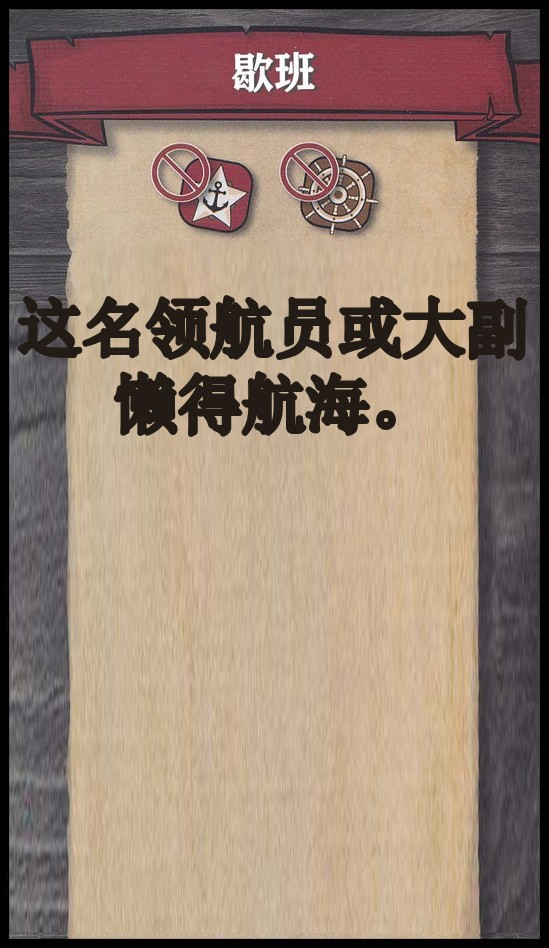
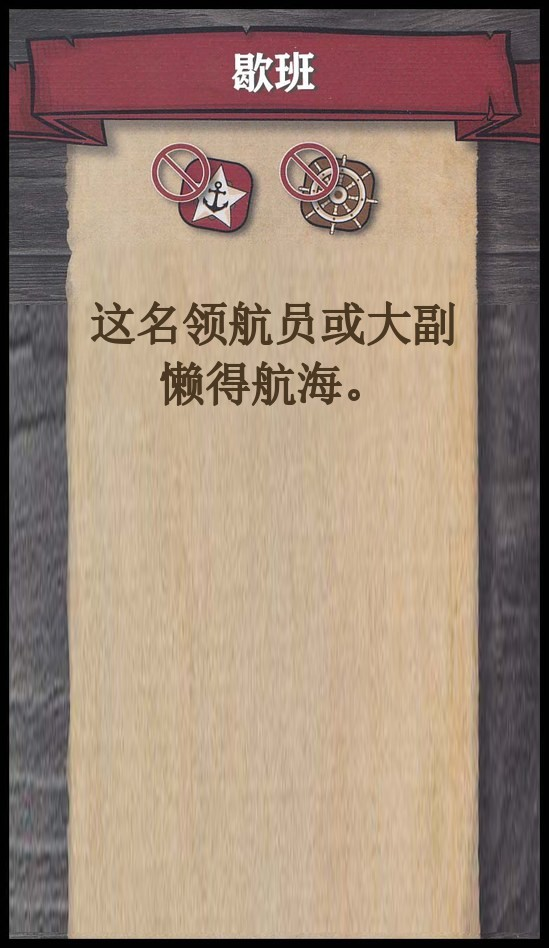
art(client): off-duty caption restyled to match 无人歇班, DOM rows moved down
Caption was solid-black 64px overrunning the tall parchment; now 46px
thin brown (tone of the empty-state whisper), inside the art. The
DOM empty/crew overlay moved 36%->47% so it no longer overlaps the
painted caption.

Changed region(s): [[0.031, 0.3059, 0.9599, 0.4589]]

diff --git a/packages/client/src/styles.css b/packages/client/src/styles.css
@@ -1495,14 +1495,15 @@ button:disabled { cursor: not-allowed; }
 /* The art's painted banner already says 歇班 — the DOM badge is redundant. */
 .col--wing .zones__banner--rest { display: none; }
 /* The overlay text sits on a canvas ~1.7× the landscape art's linear size,
-   so scale it up to match. Anchored under the painted two-line caption. */
+   so scale it up to match. Anchored below the painted two-line caption
+   (which ends ~41% down the art) with a breathing gap. */
 .col--wing .offduty__empty {
-  top: 36%;
+  top: 47%;
   font-size: 18px;
   letter-spacing: 0.18em;
 }
 .col--wing .offduty__crew {
-  top: 39%;
+  top: 47%;
   bottom: 18px;
   gap: 6px 16px;
   padding: 0 20px;
@@ -1516,7 +1517,7 @@ button:disabled { cursor: not-allowed; }
   position: absolute;
   left: 0;
   right: 0;
-  /* Under the painted caption (这名领航员或中尉懒得航海。), the parchment's
+  /* Under the painted caption (这名领航员或大副懒得航海。), the parchment's
      lower area — where resting crew belongs. */
   top: 76%;
   text-align: center;
